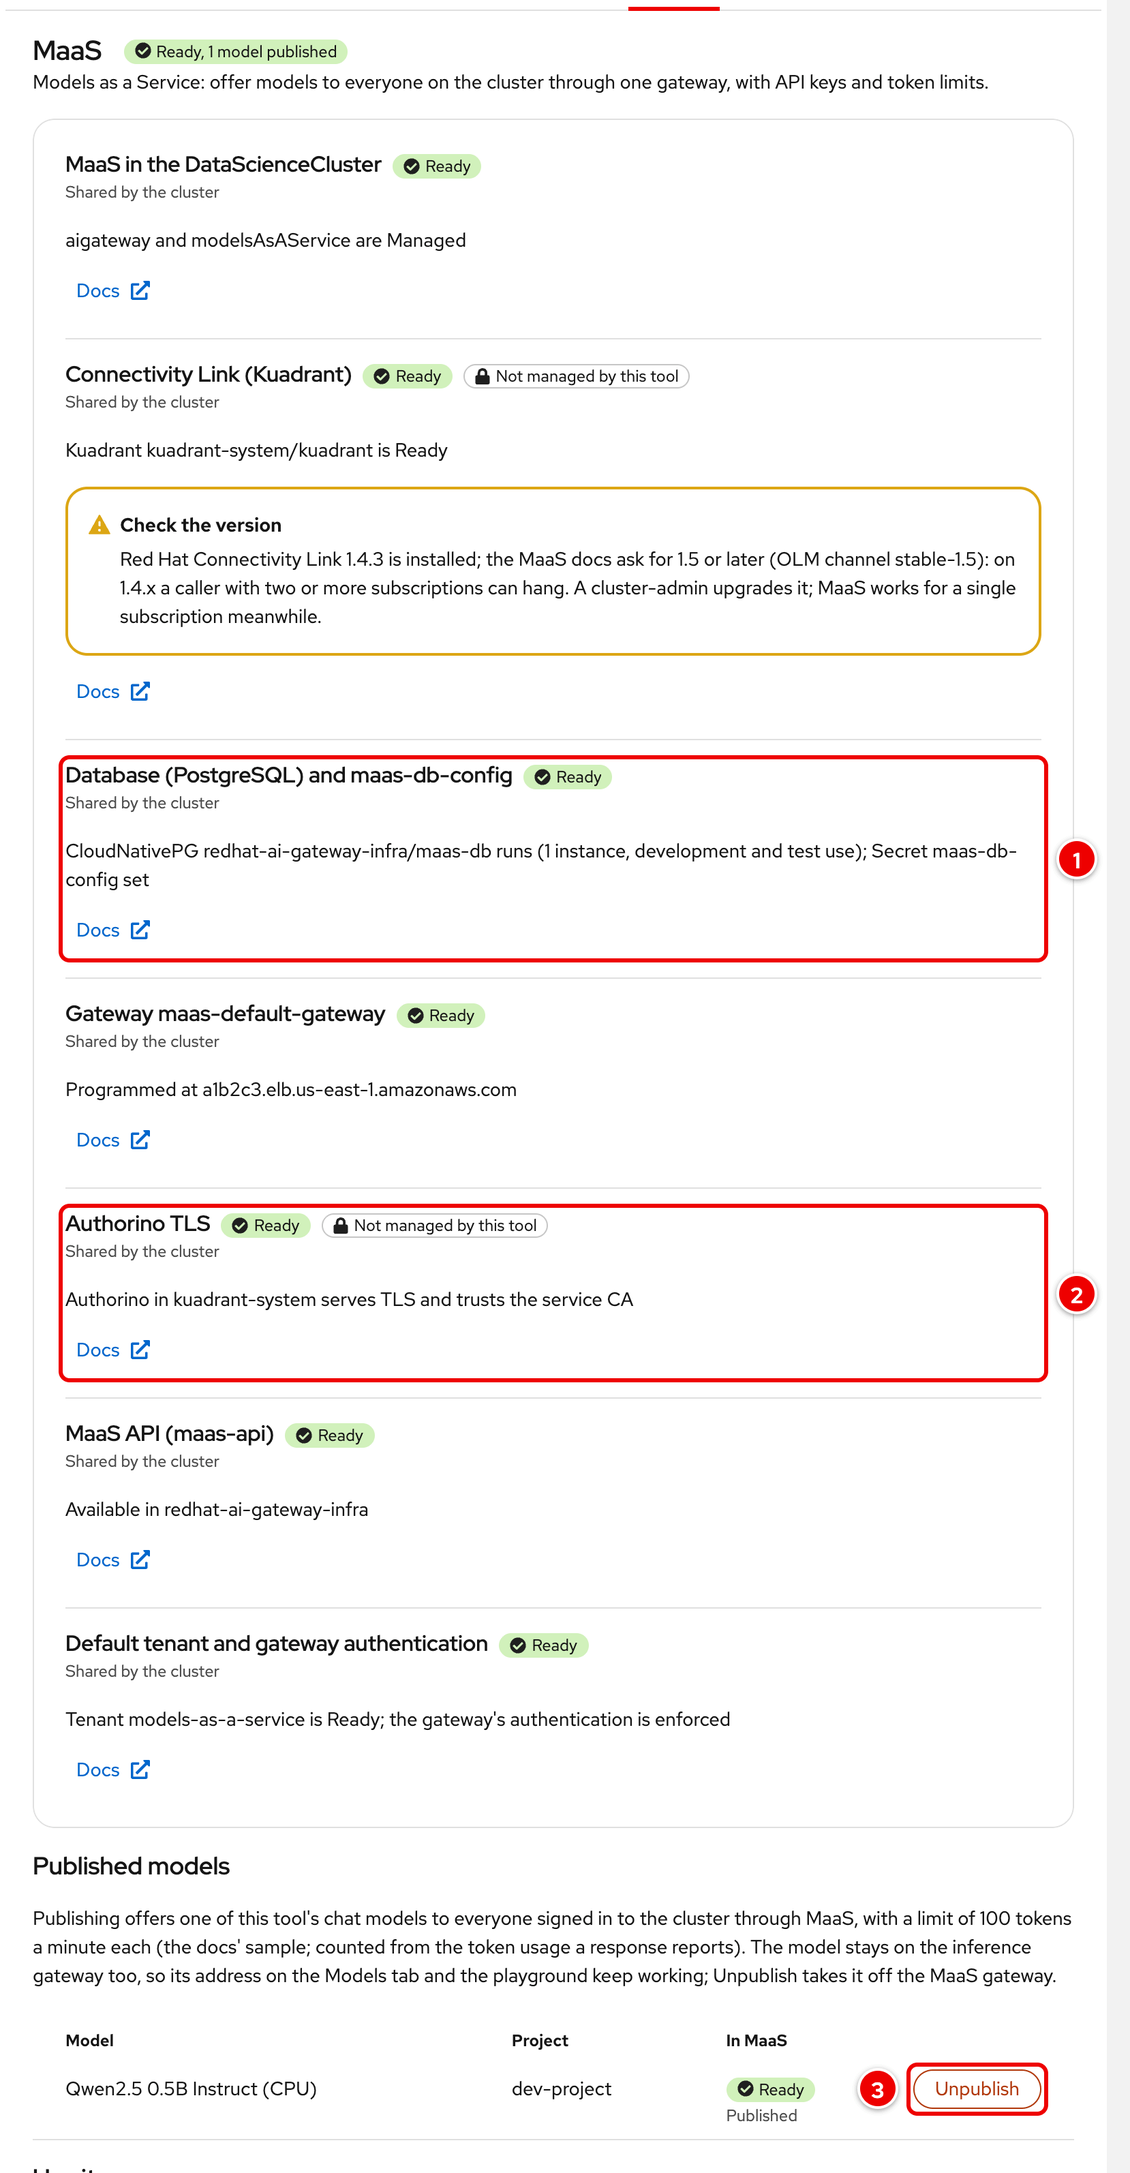
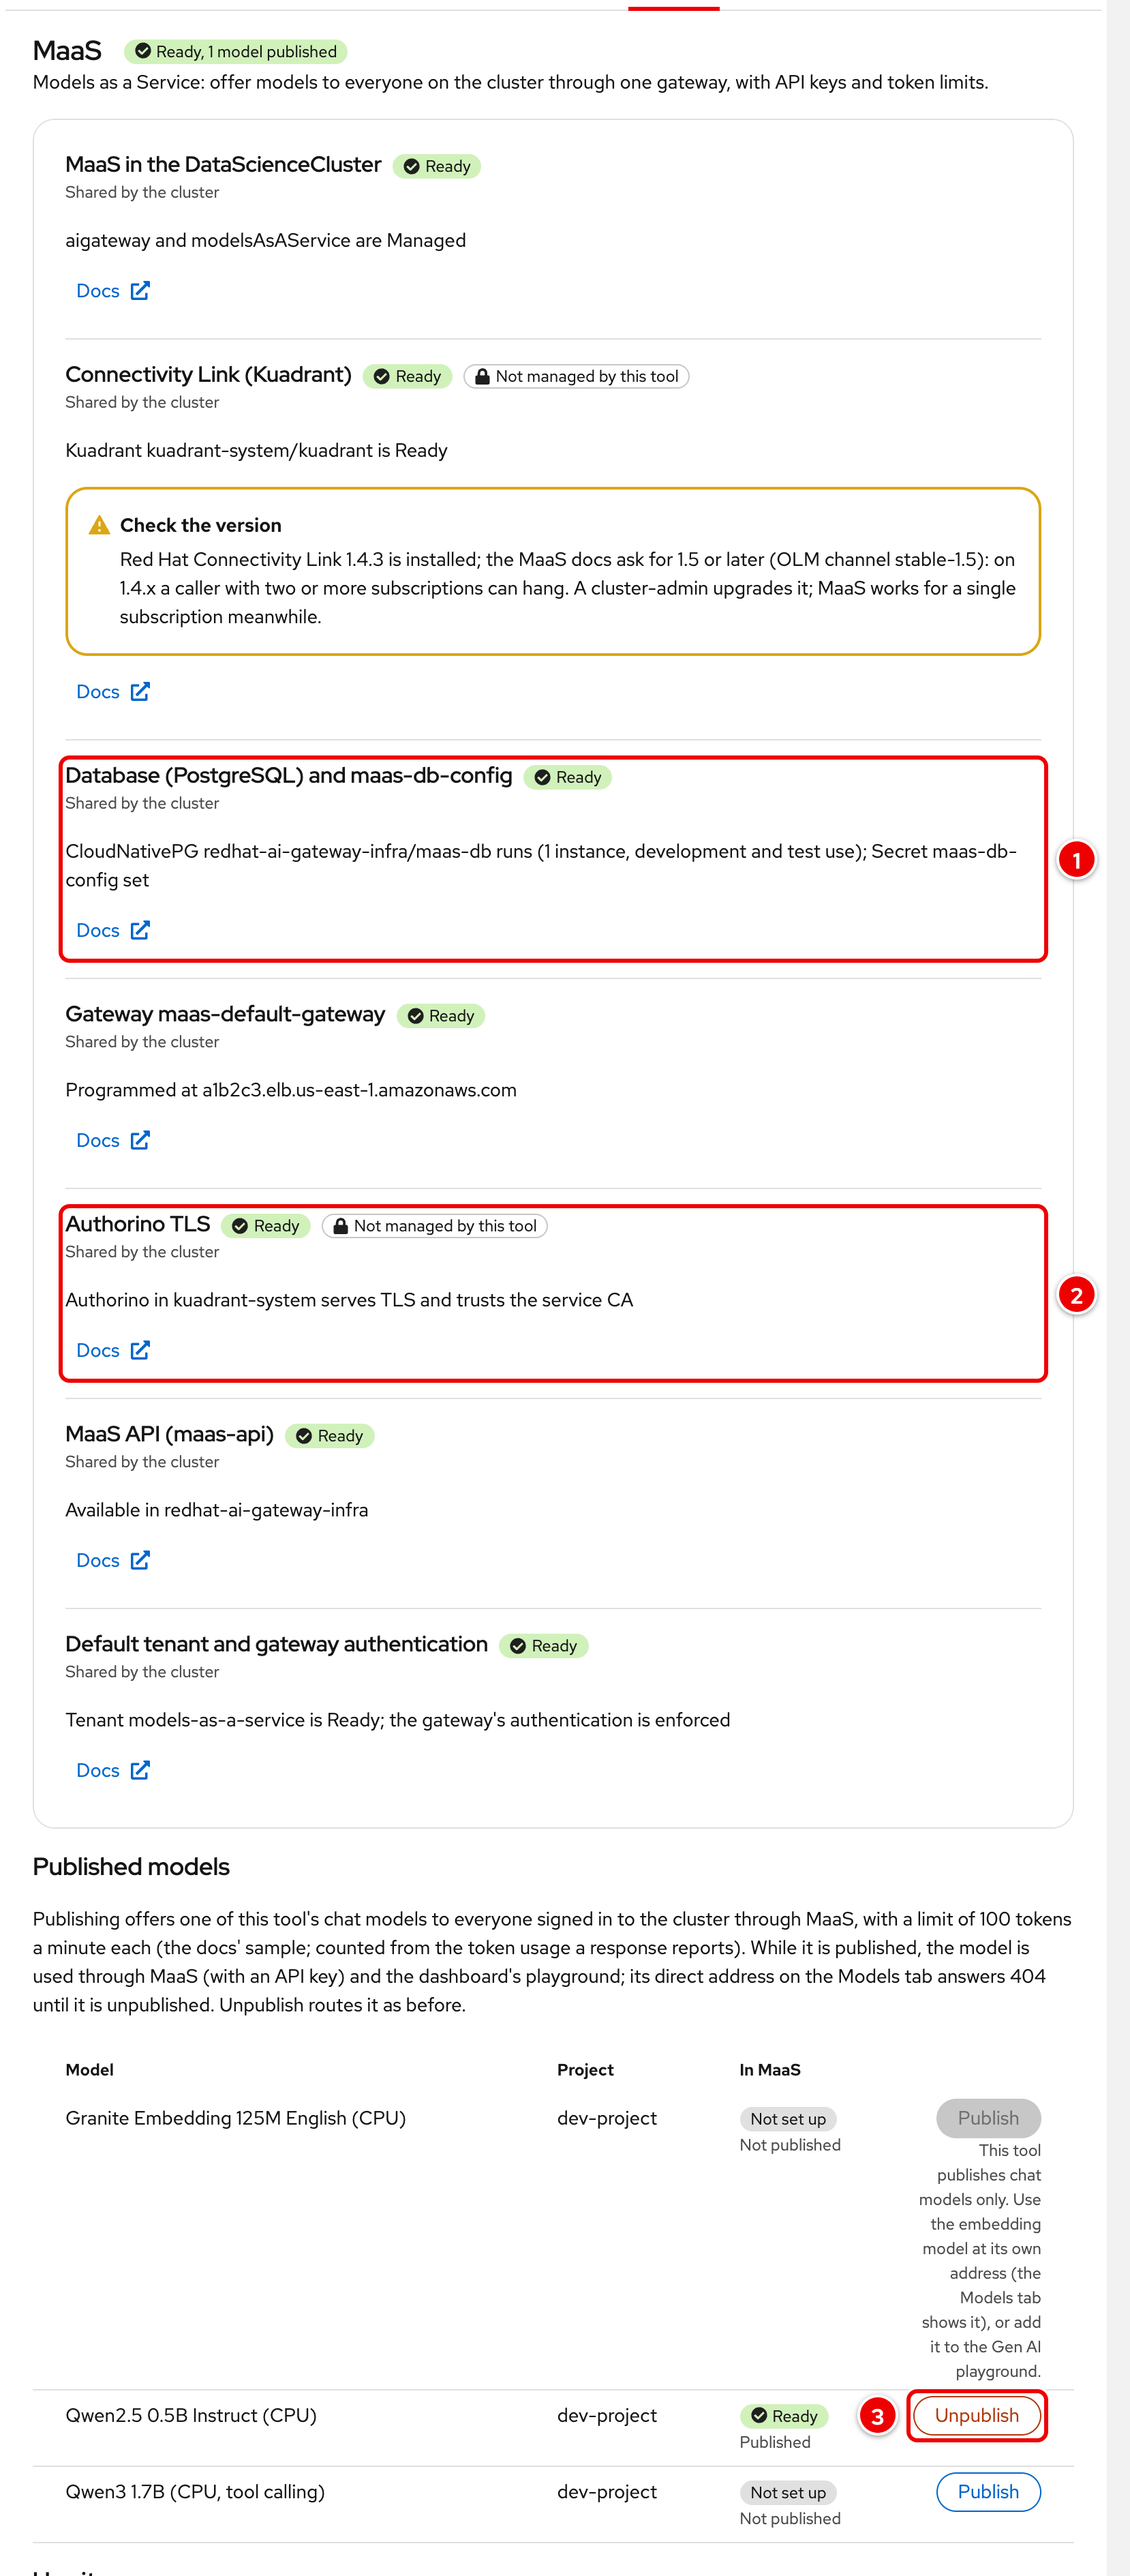
docs: MaaS mock with several models, someone-added state; image regenerated
The MaaS scenarios show the three models of dev-project (Qwen2.5
published, Qwen3 not, the embedding model never offered); new scenario
env-maas-someone-added (Qwen3 published by this build, then the inference
gateway added: the status's set-the-refs remedy). Teardown in the mock
keeps each row's model and takes the published ones off the Models tab.
maas-review captures the new state and the Models tab of the published
model beside the project's unpublished one. environment-maas.png is
regenerated from the mock.

diff --git a/docs/tools/capture.js b/docs/tools/capture.js
@@ -275,7 +275,7 @@ async (page) => {
     // Not a docs image: the MaaS tab in every state, light and dark, to
     // check it by eye (screenshots.sh maas-review, THEMES_DIR).
     async "maas-review"() {
-      for (const st of ["none", "blocked", "no-cnpg", "starting", "tls", "new-tls", "ready", "publishing", "published", "earlier-build", "orphan", "foreign", "no-model"]) {
+      for (const st of ["none", "blocked", "no-cnpg", "starting", "tls", "new-tls", "ready", "publishing", "published", "earlier-build", "someone-added", "orphan", "foreign", "no-model"]) {
         for (const dark of [false, true]) {
           await open("/test-resources?tab=maas", `env-maas-${st}`, { dark, width: 1440 });
           await fit();
@@ -289,10 +289,14 @@ async (page) => {
         await page.getByRole("button", { name: "Publish", exact: true }).click();
         await page.getByRole("dialog").waitFor();
         await page.screenshot({ path: `${out}/themes/maas-publish-confirm-${theme}.png` });
-        // The Models tab of a published model: Use it points at the MaaS tab.
-        await open("/test-resources?tab=models&project=dev-project", "env-models-published", { dark, width: 1440 });
+        // The Models tab of a published model: Use it points at the MaaS
+        // tab; the project's unpublished model keeps its own commands.
+        await open("/test-resources?tab=models&project=dev-project&model=qwen25-05b-instruct", "env-models-published", { dark, width: 1440 });
         await fit();
         await page.screenshot({ path: `${out}/themes/models-published-${theme}.png` });
+        await open("/test-resources?tab=models&project=dev-project&model=qwen3-1-7b", "env-models-published", { dark, width: 1440 });
+        await fit();
+        await page.screenshot({ path: `${out}/themes/models-unpublished-beside-published-${theme}.png` });
       }
       await open("/test-resources", "env-maas-published");
       await fit();
